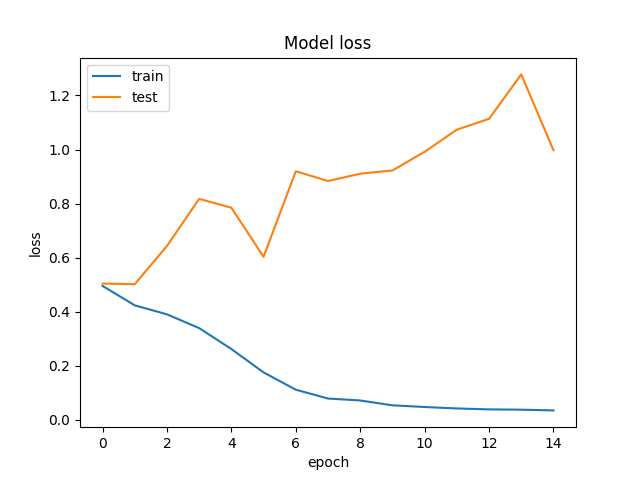
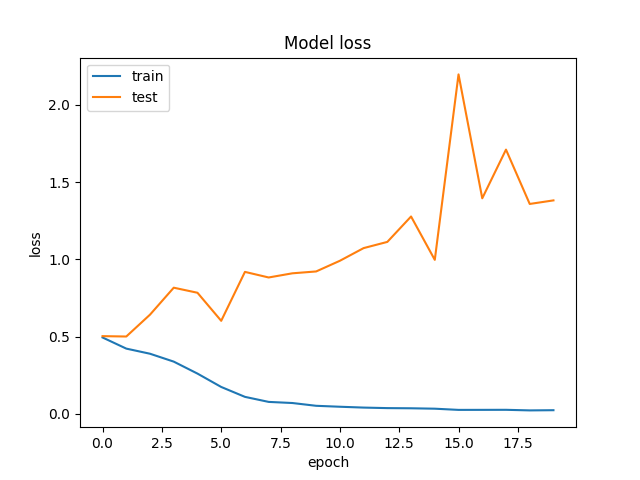
fri even updates

diff --git a/src/otis_run.py b/src/otis_run.py
@@ -38,7 +38,6 @@ def main():
         (X_train, y_train, X_test, y_test) = get_input_train_and_test()
     else:
         (X, y) = get_single_input()
-    return 
     # Train the model
     if not single_input:
         history_cnn = cnn.fit(X_train, y_train, epochs=epochs, verbose=1, \
